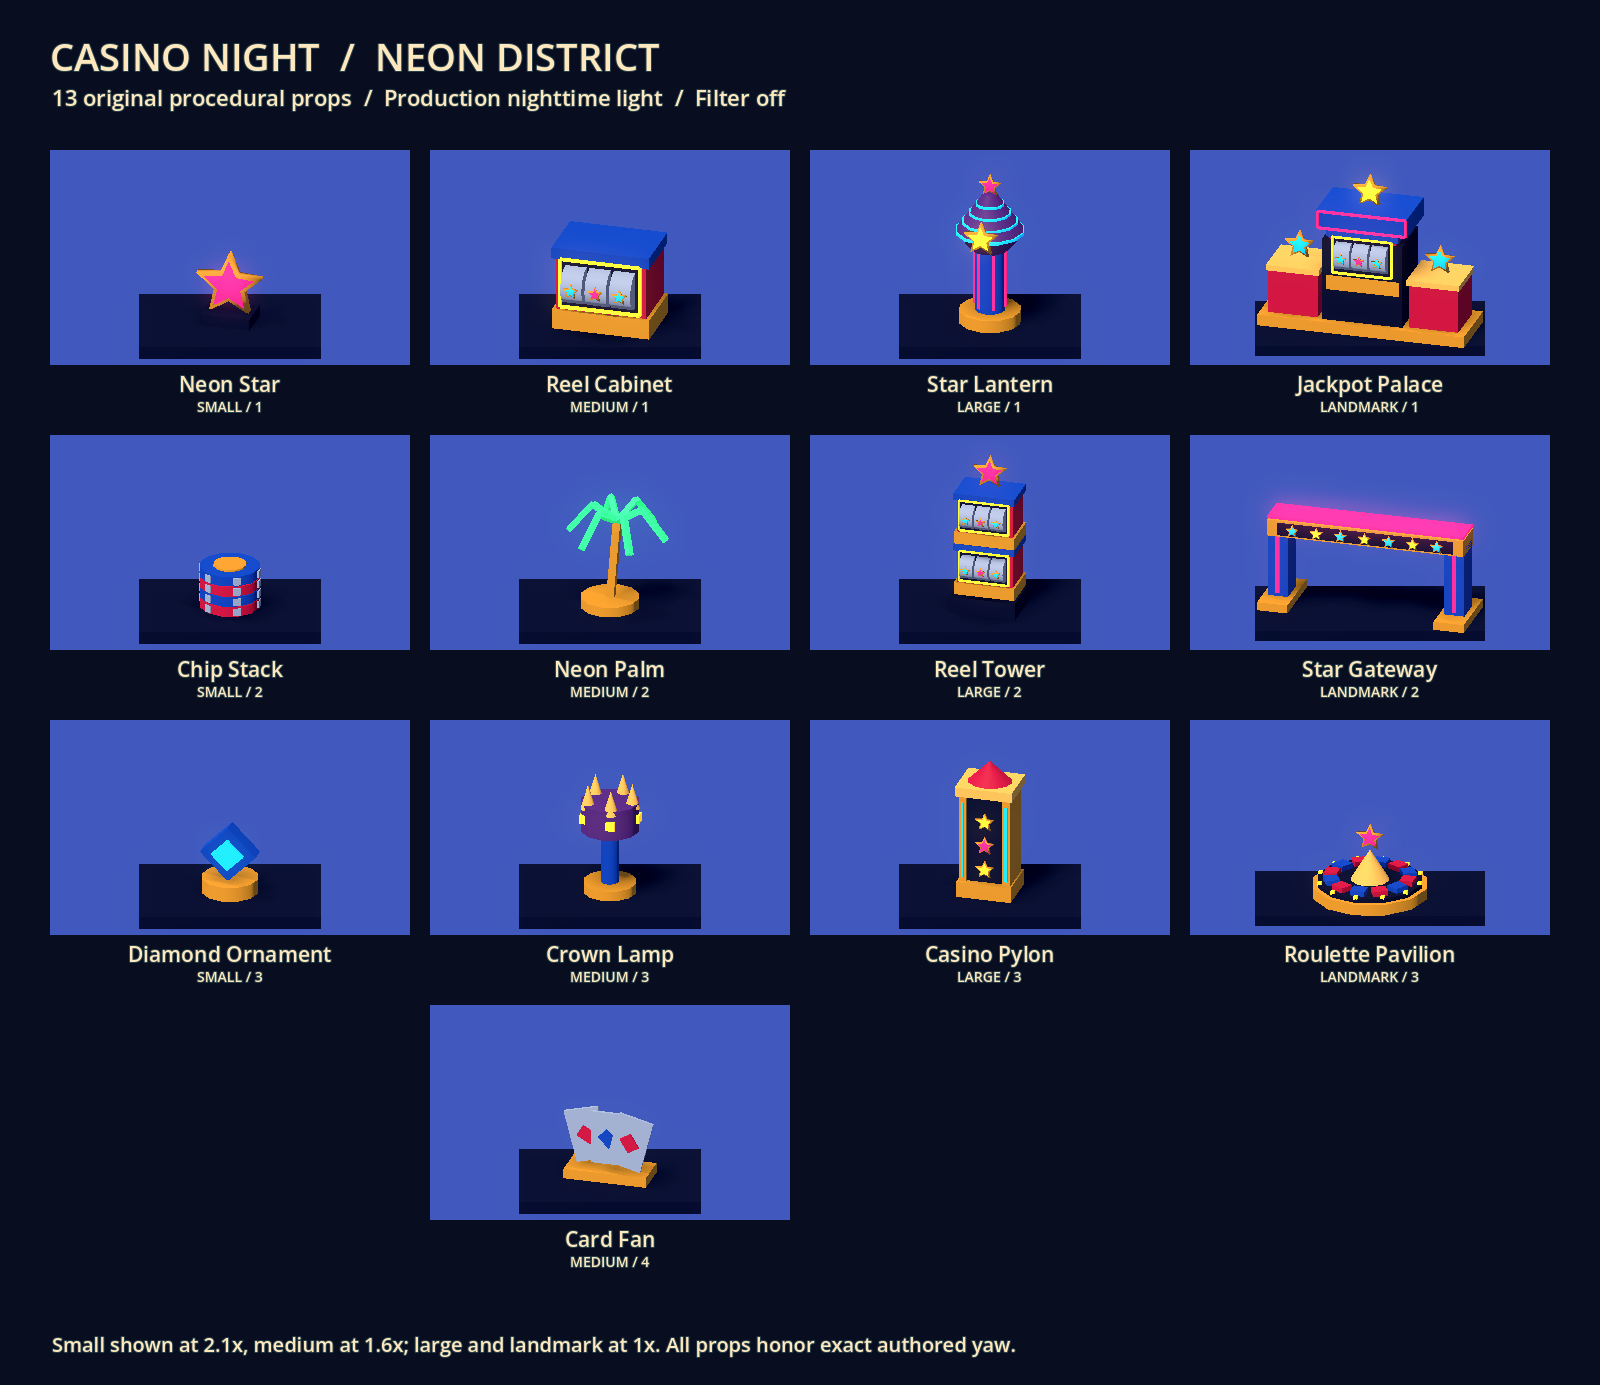
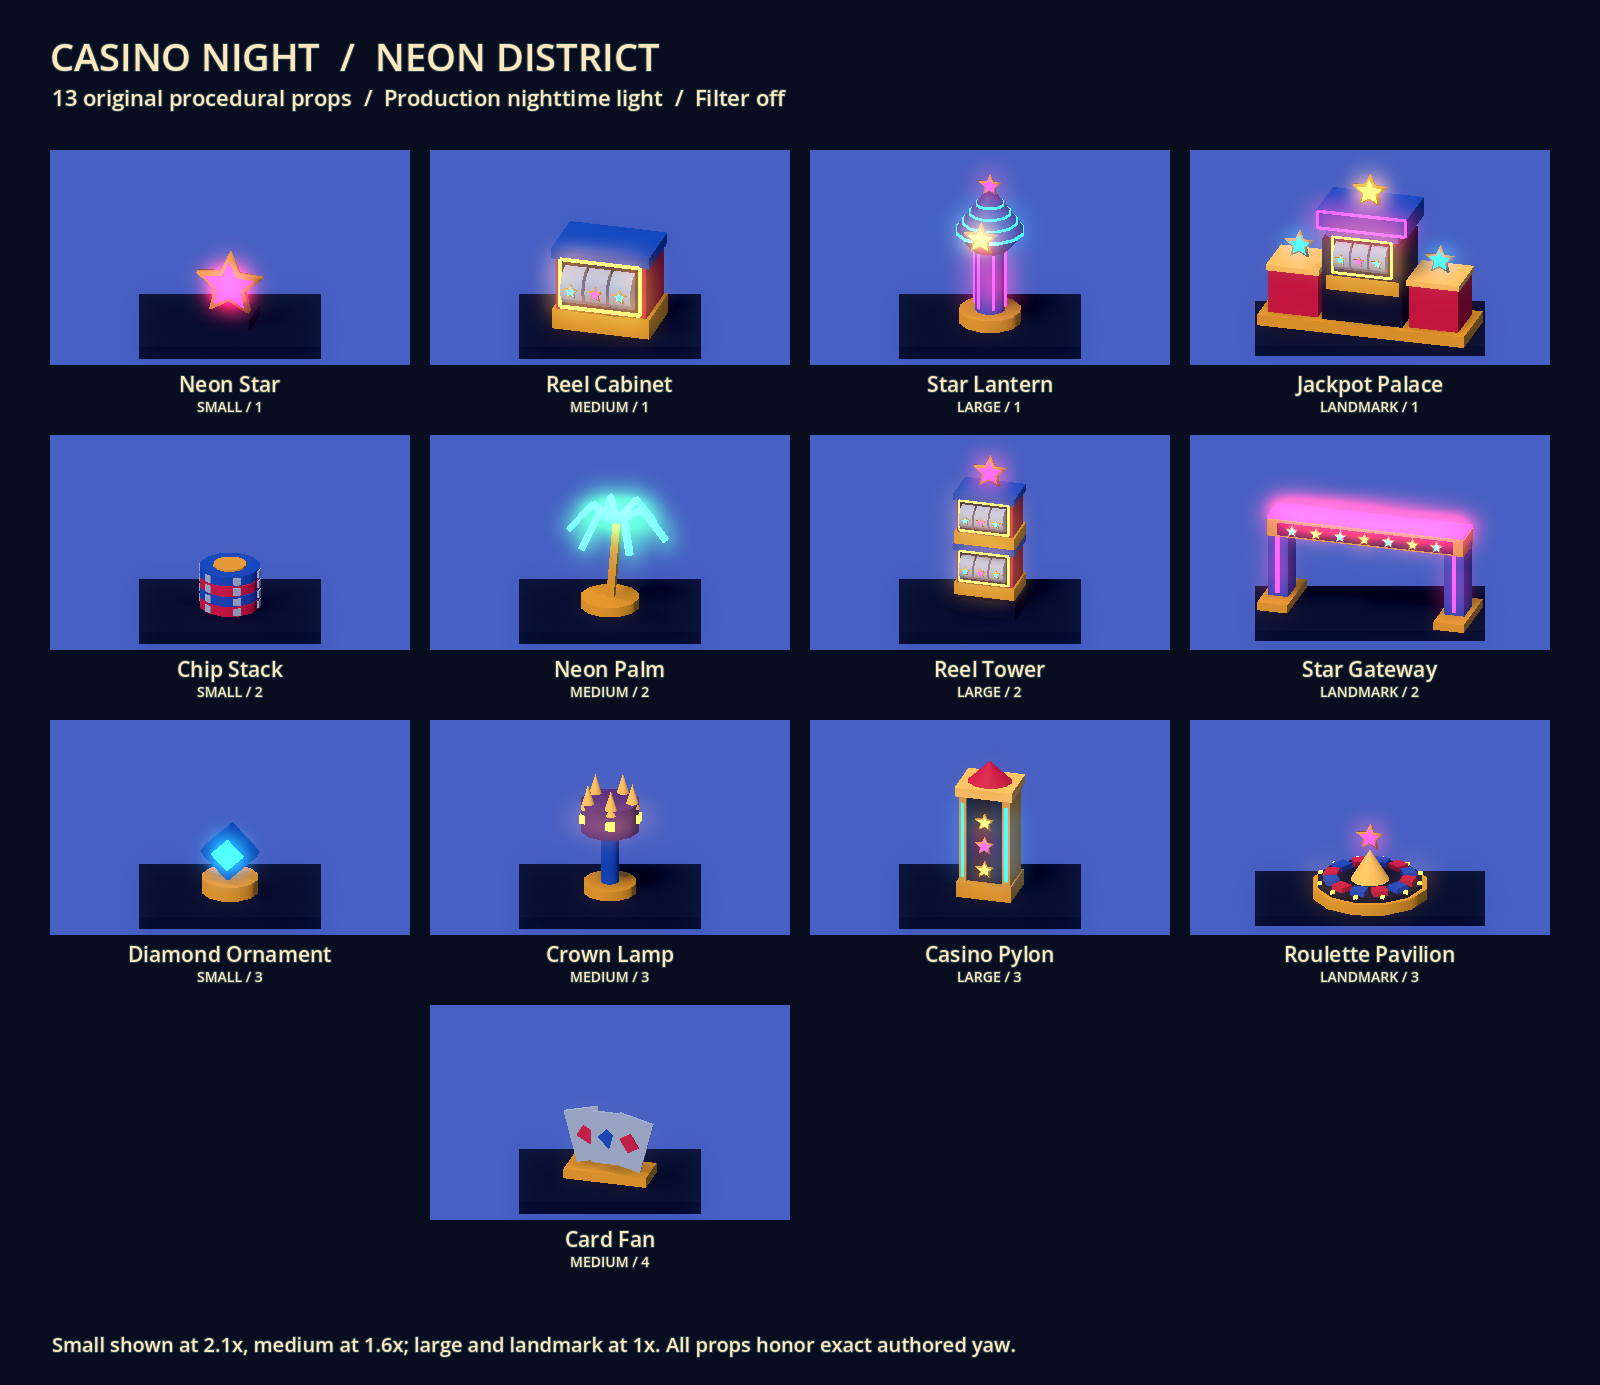
Strengthen Casino Night neon and add navy panel finish

diff --git a/docs/CASINO_NIGHT.md b/docs/CASINO_NIGHT.md
@@ -20,16 +20,24 @@ Our scene combines Sonic 2's graphic palette, Generations' architectural scale, 
 
 ## Materials, lighting and performance
 
-- **Playable surface:** quiet royal-blue panels with dark seams, subdued geometric borders, sparse embossed stars and short blue light inserts. Raised terrain has red table inserts and stronger gold borders. All patterns use world coordinates and derivative filtering, including authored curves and open rails.
-- **Walls:** gold frames around navy/red recesses, curved architectural trim, bulb rows and a narrow luminous red rim. Normal-weighted world projection wraps arbitrary authored outlines; no new collision or geometry repair occurs.
+- **Playable surface:** quiet royal-blue panels with dark seams, subdued geometric borders, sparse embossed stars and short blue light inserts. Raised terrain has dark navy panels, gold inset borders and broad pink strips. All patterns use world coordinates and derivative filtering, including authored curves and open rails.
+- **Walls:** large navy recesses, slim gold frames, broad vertical blue inserts and a luminous pink ledge rim. This user-selected finish replaces the original repeating gold circles and red bays. Normal-weighted world projection wraps arbitrary authored outlines; no new collision or geometry repair occurs.
 - **Night light:** warm directional key, cool ambient fill and a dark violet horizon. Shared gameplay materials retain familiar object colors. Rings and flippers sit against the darkest table surfaces.
-- **Emission:** pink, blue, green and amber trims use actual emission. Large silhouettes carry the light; there are no animated flashing bulbs or per-prop lights. Reel faces were darkened after review to reduce competition with gameplay highlights.
-- **Bloom:** enabled in the theme's Environment, before the existing world-only retro passes. Godot 4.7.2's Compatibility renderer supports this path; see [Godot's glow documentation](https://docs.godotengine.org/en/4.5/tutorials/3d/environment_and_post_processing.html). Only supported controls are set: intensity 0.45, bloom 0.06, HDR threshold 0.95 and HDR scale 1.2. No renderer or project-setting change is required. Earlier Godot 4 releases without Compatibility glow will still render emission, but that fallback was not tested.
-- **Local spill:** exactly two unshadowed OmniLights, amber and blue, each with range 4.0 and energy 0.7. Emission alone is not claimed to illuminate nearby geometry through GI. The local lights supply that spill. Theme rebuilds clear them; Green Hill explicitly disables glow when returning from Casino.
+- **Emission:** pink, blue, green and amber trims use actual emission at energy 2.8, increased from 1.15 after feedback that the emitters were hard to see. Large silhouettes carry the light; there are no animated flashing bulbs or per-prop lights. Reel faces were darkened after review to reduce competition with gameplay highlights.
+- **Bloom:** enabled in the theme's Environment, before the existing world-only retro passes. Godot 4.7.2's Compatibility renderer supports this path; see [Godot's glow documentation](https://docs.godotengine.org/en/4.5/tutorials/3d/environment_and_post_processing.html). Only supported controls are set: intensity 1.1, bloom 0.12, HDR threshold 0.75 and HDR scale 1.6. No renderer or project-setting change is required. Earlier Godot 4 releases without Compatibility glow will still render emission, but that fallback was not tested.
+- **Local spill:** exactly two unshadowed OmniLights, amber and blue, each with range 4.8 and energy 2.4 (previously 4.0 and 0.7). Visible crown fixtures now identify their positions along the table sides. Slightly reduced ambient/key light improves neon contrast. Emission alone is not claimed to illuminate nearby geometry through GI. The local lights supply that spill. Theme rebuilds clear them; Green Hill explicitly disables glow when returning from Casino.
 - **District:** thirteen quiet skyline buildings, one giant casino facade, six larger lantern/reel towers and six palms. Static background primitives share meshes/materials and are batched into MultiMeshes. A single original CASINO NIGHT sign remains separate. Immediate lane edges stay clear of scattered fake gameplay objects.
-- **Cost:** the checked-in terraced Act's overview measured 737 total draw calls for Casino, versus 1135 Green Hill, 821 Chemical Plant and 616 Rooftop Run. Curved Act Casino measured 557. These are whole-frame counters including HUD, shadows and gameplay, not GPU-time or FPS benchmarks. Android and low-end devices remain unmeasured.
+- **Cost:** the revised terraced Act's overview measured 793 total draw calls for Casino, versus 1135 Green Hill, 821 Chemical Plant and 616 Rooftop Run. Curved Act Casino measured 613. The two visible fixtures add 56 calls over the initial Casino version. These are whole-frame counters including HUD, shadows and gameplay, not GPU-time or FPS benchmarks. Android and low-end devices remain unmeasured.
 
 ![Casino district study, using a review-only camera](casino-captures/district.png)
+
+## Which objects emit light?
+
+The numbered guide is rendered from the real terraced Act. **1–2** identify the two crown lamps that illuminate nearby surfaces. **3–6** show examples of emissive decor: lantern bands and stars, palm branches, reel frames and stars, and gateway borders. **7–8** identify the new pink ledge rim and blue wall inserts. Other props reuse the same four emissive materials; these labels are representative, not an exhaustive list of every glowing mesh. There are no particle emitters.
+
+![Numbered light-source guide](casino-captures/emitter-guide.png)
+
+The review script also captures an identical paused frame with just the two local lights switched off. The sampled RGB mean absolute difference was **0.00367** on the tested renderer, confirming that these lights change nearby surface lighting independently of bloom. The guide overlay exists only in the capture script.
 
 ## Stable decor library
 
@@ -80,6 +88,8 @@ The following capture disables only Environment glow; compare it to the Casino o
 
 ## Verification
 
+The stronger-neon revision reran all **95 decor checks and 425 runtime checks**, with zero failures. Graphical runs refreshed 35 main-game captures, the thirteen-prop library and the numbered guide with local lights on/off. Filter OFF, the preferred retro stack, and bloom-disabled comparisons were inspected. The table below records the broader original skin validation; those additional suites were not all rerun for this material-only revision.
+
 Executed on Windows with Godot **4.7.2**, GL Compatibility / ANGLE / RTX 4060:
 
 | Check | Result |
@@ -104,6 +114,7 @@ Reproduce from the repository:
 & 'C:\Program Files\Godot\Godot.exe' --headless --path . --script tests/authored_main_game_regression.gd -- --theme=casino_night
 & 'C:\Program Files\Godot\Godot.exe' --path . --rendering-method gl_compatibility --rendering-driver opengl3_angle --script tests/casino_capture.gd -- --city-study
 & 'C:\Program Files\Godot\Godot.exe' --path . --rendering-method gl_compatibility --rendering-driver opengl3_angle --script tests/casino_library_capture.gd
+& 'C:\Program Files\Godot\Godot.exe' --path . --rendering-method gl_compatibility --rendering-driver opengl3_angle --script tests/casino_emitter_capture.gd
 ```
 
 Full capture manifests live under ignored `test-results/casino-review/`; selected screenshots are checked in here. Manual review remains short: fast-ball visibility in all four character colors, tall authored props near tight lanes, and bloom/grain preference at the user's normal window size. No automated check establishes final feel or polish.

diff --git a/docs/GAME_DESIGN.md b/docs/GAME_DESIGN.md
@@ -456,6 +456,6 @@ The art direction combines Unleashed's masonry, shutters, rooftop gardens and ve
 
 ### Selectable Casino Night presentation — 2026-10-25
 
-**Confirmed and implemented:** Casino Night is the fourth presentation-only skin of the same authored or generated playfield. Original procedural royal-blue table panels, red raised caps, gold architectural walls, warm nighttime lighting, neon star lanterns, giant reel architecture and a distant casino district provide its identity. Thirteen original collisionless decor variants use the existing generic size/hint/fixed-index contract. Landmark upright/span/circular roles and footprints remain shared across themes. No physics, scoring, enemies, gambling rules, Act data or gameplay-specific theme branches were added.
+**Confirmed and implemented:** Casino Night is the fourth presentation-only skin of the same authored or generated playfield. Original procedural royal-blue table panels, navy raised caps and walls, thin gold frames, broad pink and blue neon strips, warm nighttime lighting, neon star lanterns, giant reel architecture and a distant casino district provide its identity. Thirteen original collisionless decor variants use the existing generic size/hint/fixed-index contract. Landmark upright/span/circular roles and footprints remain shared across themes. No physics, scoring, enemies, gambling rules, Act data or gameplay-specific theme branches were added.
 
-Casino uses actual emissive materials, restrained Environment glow on the tested Godot 4.7.2 Compatibility renderer, and exactly two unshadowed local spill lights. The existing preferred N64-ish + VHS + CRT stack remains unchanged. Switching away clears local lights and resets bloom. Repeated background primitives are batched; authored prop identity remains intact. The one-way gate was absent from the checkout and was not added as part of this visual task. See [Casino Night](CASINO_NIGHT.md) for research sources, all thirteen props, matched four-theme captures and checks. Bloom strength, fast-ball readability and decorative overhang remain provisional art tuning for human review.
+Casino uses actual emissive materials, Environment glow on the tested Godot 4.7.2 Compatibility renderer, and exactly two unshadowed local spill lights with visible crown fixtures. Following visual feedback, emission increased from 1.15 to 2.8, light energy from 0.7 to 2.4, and bloom was strengthened. The user selected the navy panels, gold trim and broad neon finish. The existing preferred N64-ish + VHS + CRT stack remains unchanged. Switching away clears local lights and resets bloom. Repeated background primitives are batched; authored prop identity remains intact. The one-way gate was absent from the checkout and was not added as part of this visual task. See [Casino Night](CASINO_NIGHT.md) for research sources, all thirteen props, the numbered emitter guide, matched four-theme captures and checks. Bloom strength, fast-ball readability and decorative overhang remain provisional art tuning for human review.

diff --git a/README.md b/README.md
@@ -340,4 +340,4 @@ Before expanding the generator, manually evaluate controller feel, launch timing
 
 ## Selectable visual themes
 
-Open **Play Green Hill.cmd**, then choose **THEME → Green Hill / Chemical Plant / Rooftop Run / Casino Night**. All four skins use the same live authored or generated level, physics, score and camera. Chemical Plant adds original low-poly industrial materials, glowing fluid props and night scenery. Rooftop Run adds warm architectural paving, terracotta roofs, masonry facades, sunny city scenery and twelve original decor variants. Casino Night adds royal-blue tables, gold casino walls, emissive star lanterns, slot-machine architecture, restrained bloom and thirteen original decor variants. See the [shared theme pipeline](docs/CHEMICAL_PLANT.md), [Rooftop Run](docs/ROOFTOP_RUN.md), and [Casino Night research, comparisons and lighting checks](docs/CASINO_NIGHT.md).
+Open **Play Green Hill.cmd**, then choose **THEME → Green Hill / Chemical Plant / Rooftop Run / Casino Night**. All four skins use the same live authored or generated level, physics, score and camera. Chemical Plant adds original low-poly industrial materials, glowing fluid props and night scenery. Rooftop Run adds warm architectural paving, terracotta roofs, masonry facades, sunny city scenery and twelve original decor variants. Casino Night adds royal-blue tables, navy and gold walls, broad neon strips, emissive star lanterns, slot-machine architecture, bloom and thirteen original decor variants. See the [shared theme pipeline](docs/CHEMICAL_PLANT.md), [Rooftop Run](docs/ROOFTOP_RUN.md), and [Casino Night research, comparisons and lighting checks](docs/CASINO_NIGHT.md).
